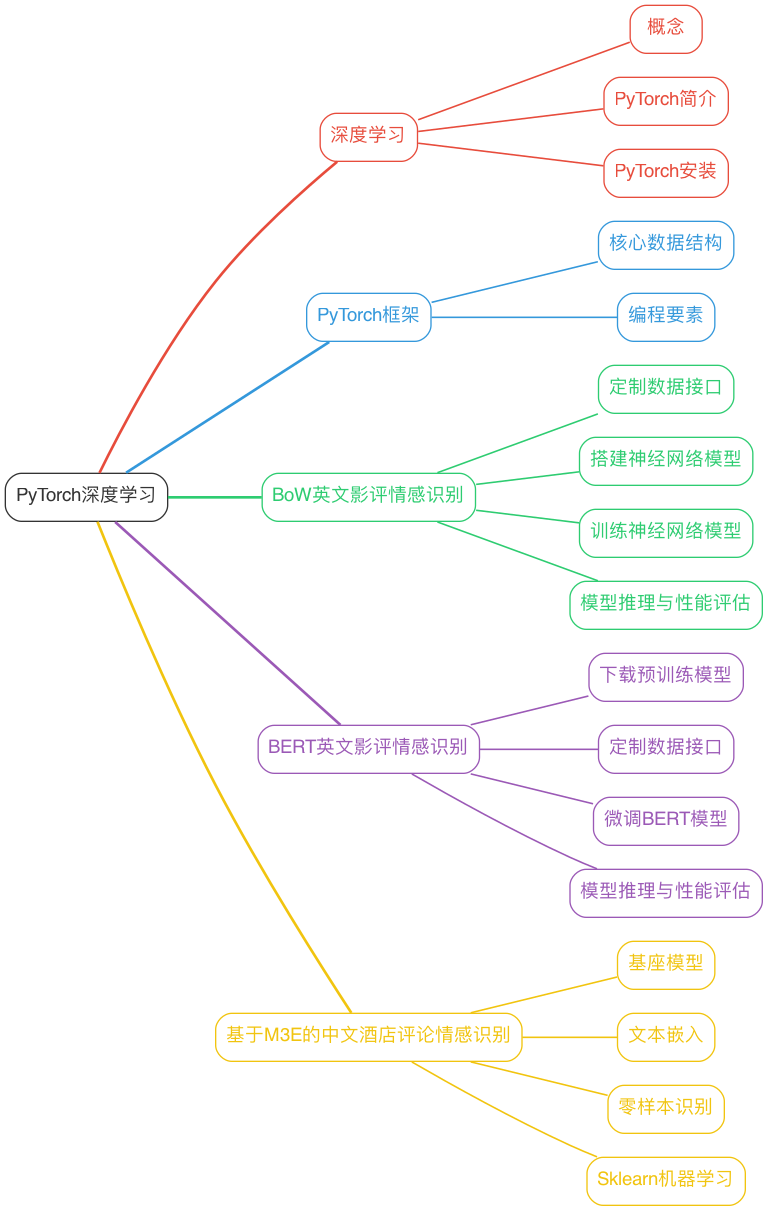
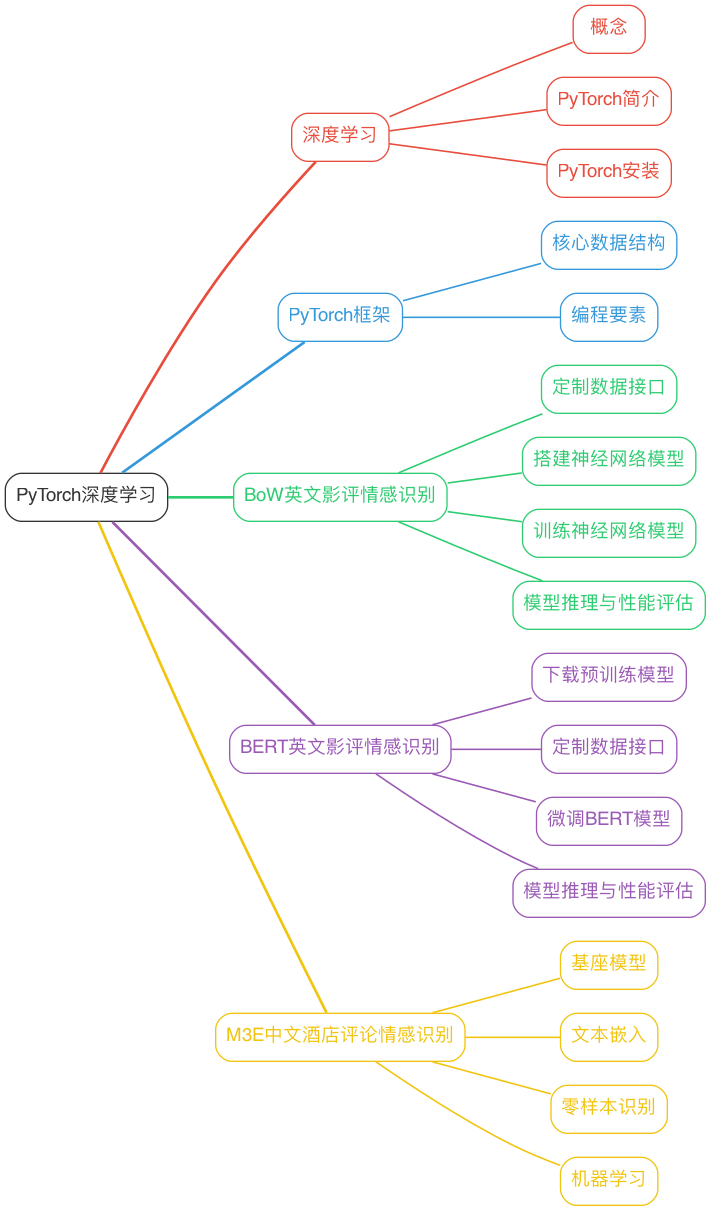
update ch5-pytorch

diff --git a/mind-maps/ch5-part2.md b/mind-maps/ch5-part2.md
@@ -21,8 +21,8 @@
 ### 微调BERT模型
 ### 模型推理与性能评估
 
-## 基于M3E的中文酒店评论情感识别
+## M3E中文酒店评论情感识别
 ### 基座模型
 ### 文本嵌入
 ### 零样本识别
-### Sklearn机器学习
+### 机器学习
